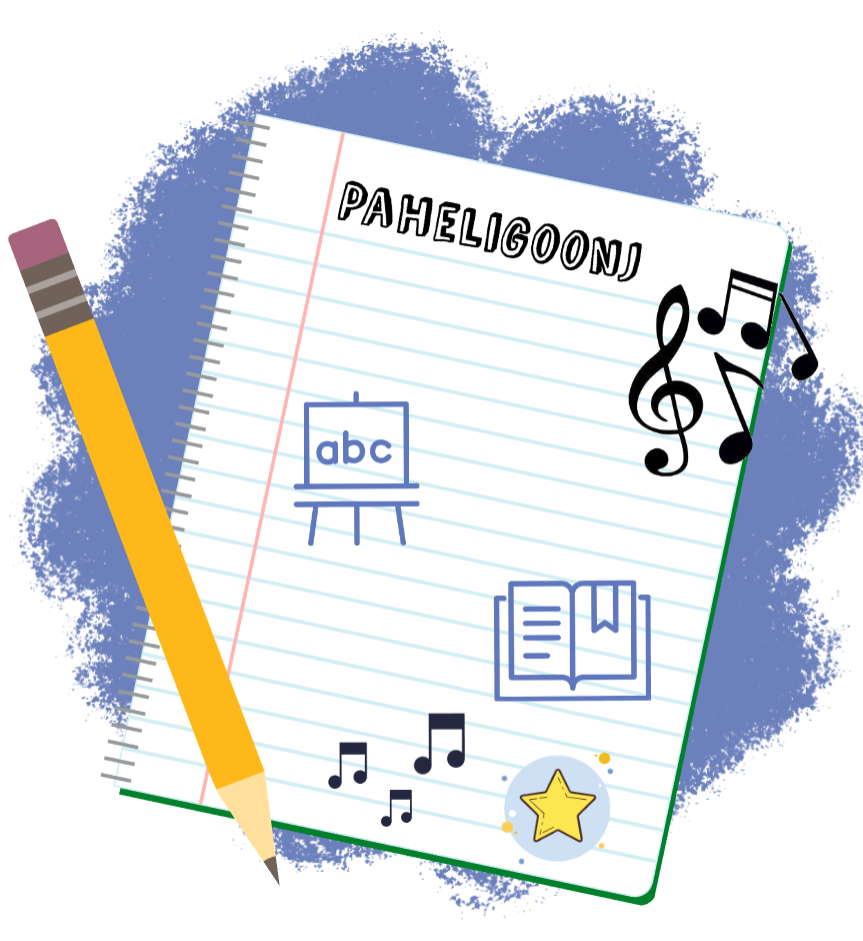
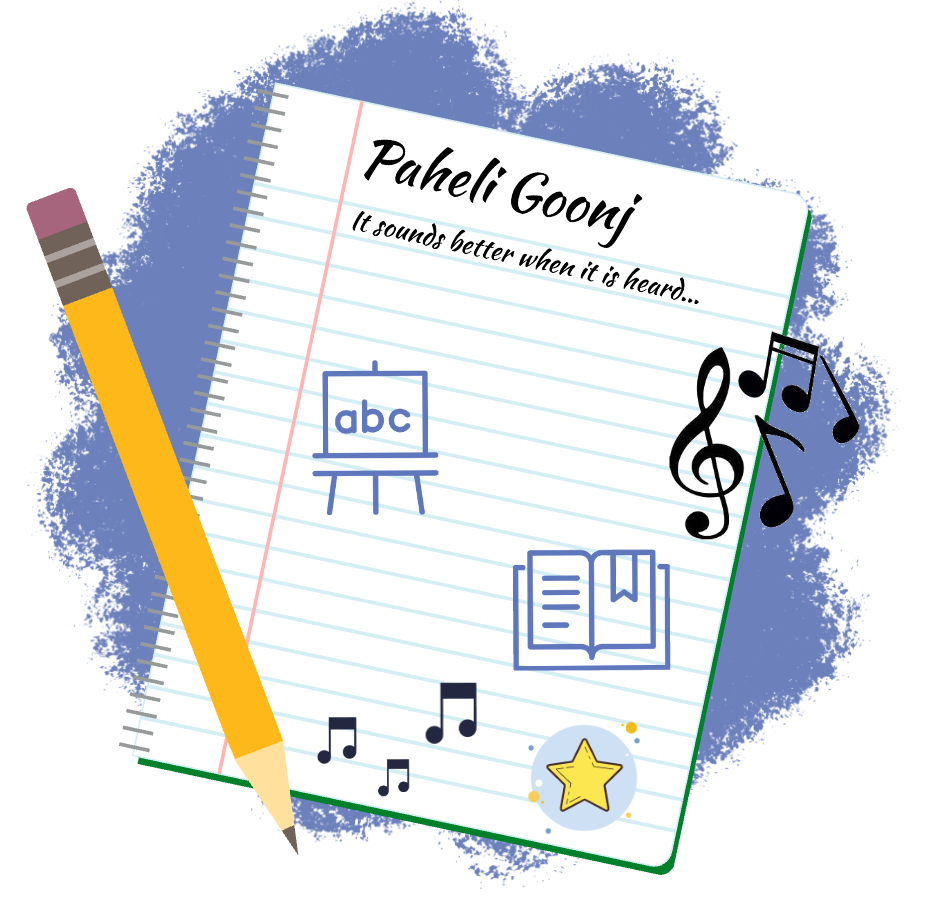
Added Help and Changed Leanr and Quiz

diff --git a/pages/help.html b/pages/help.html
@@ -1,0 +1,42 @@
+<!DOCTYPE html>
+<html>
+
+<head>
+  <meta charset="utf-8" name="viewport" content="width=device-width, initial-scale=1.0">
+  <meta name="viewport" content="width=device-width,initial-scale=1,maximum-scale=0.5">
+  <meta http-equiv="X-UA-Compatible" content="IE=edge,chrome=1">
+  <meta name="HandheldFriendly" content="true">
+
+  <link rel="icon" href="images/icon-1.png" type="image/png">
+  <link rel="stylesheet" href="https://cdn.jsdelivr.net/npm/bootstrap@4.5.3/dist/css/bootstrap.min.css"
+    integrity="sha384-TX8t27EcRE3e/ihU7zmQxVncDAy5uIKz4rEkgIXeMed4M0jlfIDPvg6uqKI2xXr2" crossorigin="anonymous">
+
+  <link rel="stylesheet" href="css/main.css">
+  
+</head>
+<title> Paheli Goonj</title>
+
+<body>
+
+    <div class="container-fluid">
+        <div class="row" style="background-image: url('../../images/header-back.png');min-height: 78px;">
+            <div class="col-sm-4"></div>
+            <div class="col-sm-4 text-center d-flex align-items-center justify-content-center"><img style="margin: 10px 0;width: 70%" class="img-fluid" src="../../images/logo.png" /></div>
+            <!-- <img id="name-banner" src="../../images/Goonj-title.png" /> -->
+            <div class="col-sm-4 text-right d-flex align-items-center justify-content-end"><a id="homeButton" class="d-block text-right" style="margin: 10px 0;cursor: pointer;" onclick="location.href = '/';"><img style="width: 100px;" class="img-fluid" src="../../images/home-icon-1.png" /></a></div>
+        </div>
+    </div>
+  <div id="main-container" class="container-fluid container justify-content-center align-items-center">
+    <div class="row justify-content-center">
+      <div class="col-12 col-sm-12 text-center position-relative">
+        <img src="../images/helpPage.png" id="background-img" class="img-fluid">
+        
+      </div>
+    </div>
+  </div>
+
+
+
+</body>
+
+</html>

diff --git a/index.html b/index.html
@@ -27,18 +27,18 @@
     <div class="row justify-content-center">
       <div class="col-12 col-sm-12 text-center position-relative">
         <img src="images/homepage.png" id="background-img" class="img-fluid">
-        <!-- <div id="helpButton-div">
+        <div id="helpButton-div">
           <button id="helpButton" onclick="location.href = 'pages/help.html';">
-           <img src="/images/helpBtn.png">
+           <img src="/images/helpBtnNew.png">
           </button>
-        </div> -->
+        </div>
         <div id="quizButton-div">
-          <button id="quizButton" onclick="location.href = 'pages/quiz/quiz.html';">
-            <span class="arrow2">>></span><span>&nbsp;&nbsp;&nbsp;&nbsp;Quiz</span>
+          <button id="quizButton" onclick="location.href = 'pages/learning/learning.html';">
+            <span class="arrow2">>></span><span>&nbsp;&nbsp;&nbsp;&nbsp;Learn</span>
           </button>
         </div>
         <div id="learnButton-div">
-          <button id="learnButton" onclick="location.href = 'pages/learning/learning.html';"><span>Learn</span> <span
+          <button id="learnButton" onclick="location.href = 'pages/quiz/quiz.html';"><span>Quiz</span> <span
               class="arrow1">&lt;&lt;</span></button>
         </div>
       </div>

diff --git a/pages/learning/link-sounds.html b/pages/learning/link-sounds.html
@@ -15,7 +15,6 @@
   <script src="js/jquery-1.11.0.min.js" type="text/javascript"></script>
   <script type="text/javascript">
       writeCookie("link");
-
     function writeCookie(moduleValue) {
             var cookie = moduleValue;
             document.cookie = cookie + "=" + cookie + "; expires=Thu, 18 Dec 2100 12:00:00 UTC ; path=/";
@@ -64,6 +63,9 @@
                 Start
               </div> -->
         <div class="mySlides fading text-center">
+          <img id="slideshow" src="../../images/Module1-Description.png">
+        </div>
+        <div class="mySlides fading text-center">
           <img id="slideshow" src="../../images/quiz-aeroplane-resize.png">
         </div>
 
@@ -104,7 +106,7 @@
         <span class="dot" onclick="currentSlide(5)"></span>
         
         <span class="dot" onclick="currentSlide(6)"></span>
-        <!-- <span class="dot" onclick="currentSlide(7)"></span> -->
+        <span class="dot" onclick="currentSlide(7)"></span>
 
       </div>
       <div class="d-flex align-items-center justify-content-center w-100 mt-4">

diff --git a/css/main.css b/css/main.css
@@ -148,14 +148,15 @@ body {font-family: Arial, Helvetica, sans-serif;}
 }
 #helpButton {
   font-size: 18px !important;
-  background-color: #7280BC;
+  background-color: white;
   font-weight: bold;
-  text-shadow: 1px 1px #7280BC;
+  /* text-shadow: 1px 1px #7280BC; */
   color: #ffffff;
-  border-radius: 100px;
-  -moz-border-radius: 100px;
-  -webkit-border-radius: 100px;
-  border: 1px solid #7280BC;
+  border-color: white;
+   border-radius: 20px;
+  /* -moz-border-radius: 10px; */
+  /* -webkit-border-radius: 10px; */ 
+  /* border: 1px solid #7280BC; */
   cursor: pointer;
 
   /* position: fixed;
@@ -170,15 +171,15 @@ body {font-family: Arial, Helvetica, sans-serif;}
   /* float:left;  */
   position:absolute;
   top: 29%;
-  transform: translateY(-50%);
-  left:77%
+  transform: translateY(-75%);
+  left:73%
 }
 
 #helpButton{
   cursor: pointer;
   display: inline-block;
   position: relative;
-  box-shadow: 0 0 0 0 rgba(0, 0, 0, 1);
+  box-shadow: 0 0 0 0 rgba(255, 255, 255, 0);
 	transform: scale(1);
 	animation: pulse 2s infinite;
 }

diff --git a/js/learn_link_sounds.js b/js/learn_link_sounds.js
@@ -14,26 +14,27 @@ function currentSlide(n) {
   showSlides(slideIndex = n);
 }
 function playAudio(n){
+  learn_audio.style.display = "block";
   switch(n){
-    // case 1:
-    //   learn_audio.src="../audio/Gangnam Style -.mp3";
-    //   break;
     case 1:
-      learn_audio.src ="../../../audio/a.mp3";
+      learn_audio.style.display = "none";
       break;
     case 2:
-      learn_audio.src ="../../../audio/sh.mp3";
+      learn_audio.src ="../../../audio/a.mp3";
       break;
     case 3:
+      learn_audio.src ="../../../audio/sh.mp3";
+      break;
+    case 4:
       learn_audio.src ="../../../audio/ee.mp3";
       break;  
-    case 4:
+    case 5:
       learn_audio.src ="../../../audio/m.mp3";
       break;
-    case 5:
+    case 6:
         learn_audio.src ="../../../audio/s.mp3";
         break;
-    case 6:
+    case 7:
         learn_audio.src ="../../../audio/u.mp3";
         break;
   }
